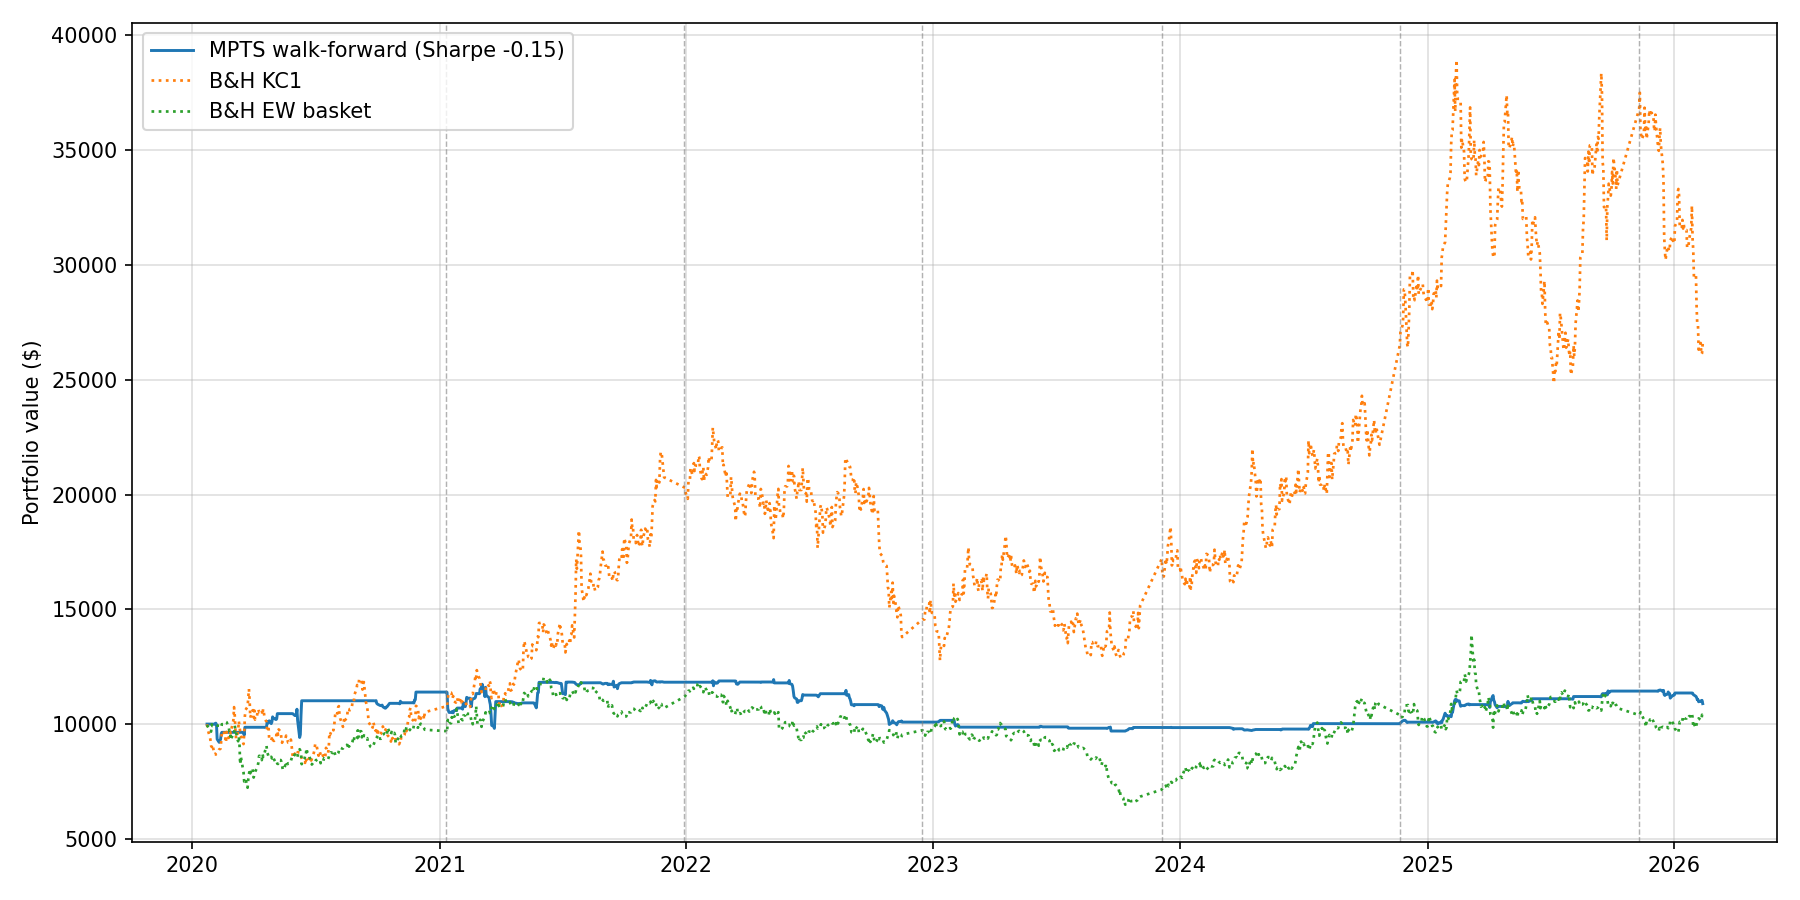
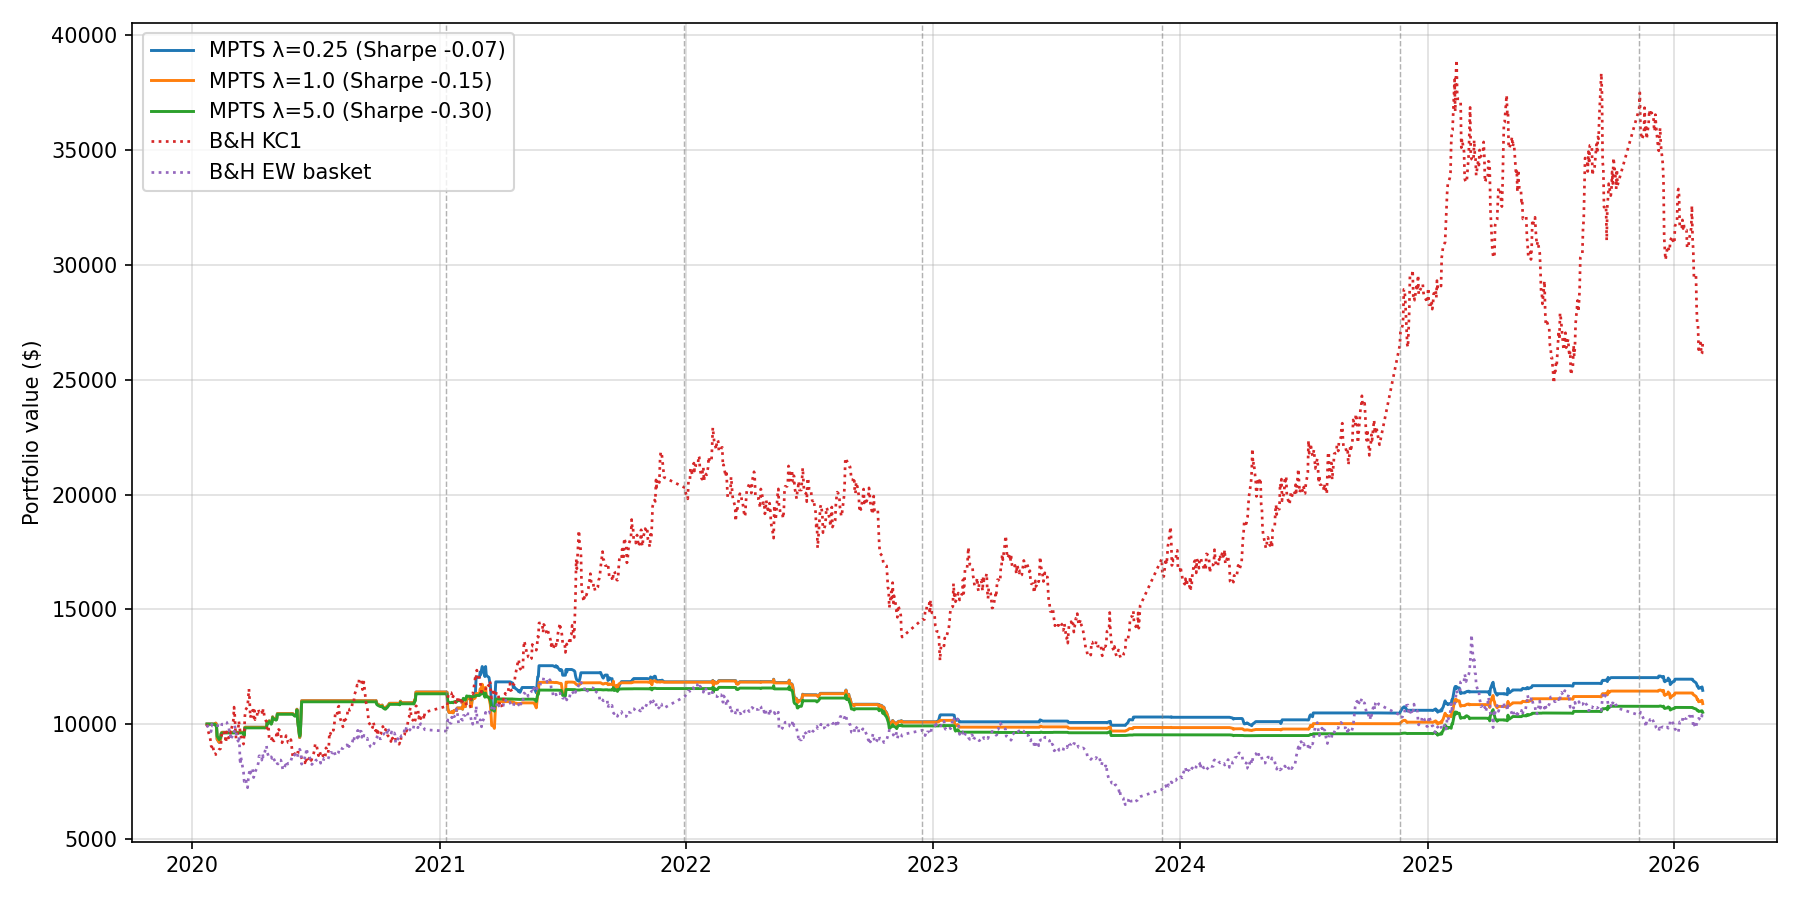
Add risk-aversion (lambda) sweep to the walk-forward pipeline
Lambda is the aggressiveness dial from the report's Section 4.2: the
pipeline now runs the walk-forward once per value in
strategy.risk_aversion_sweep, prints a per-lambda comparison table and
plots all equity curves together. README documents the sweep and the
structural aggressiveness ceiling imposed by the no-leverage constraint.

diff --git a/scripts/run_backtest.py b/scripts/run_backtest.py
@@ -38,18 +38,20 @@ def load_config(path: str) -> dict:
 
 
 def plot_walk_forward(
-    result: walk_forward.WalkForwardResult,
+    results: dict[float, walk_forward.WalkForwardResult],
     benchmarks: dict[str, pd.Series],
     initial_capital: float,
     output_path: Path,
 ) -> None:
-    """Stitched OOS equity curve vs. benchmarks, with fold boundaries."""
+    """Stitched OOS equity curves (one per lambda) vs. benchmarks."""
     fig, ax = plt.subplots(figsize=(12, 6))
-    ax.plot(result.portfolio_value(initial_capital), lw=1.4,
-            label=f"MPTS walk-forward (Sharpe {result.sharpe:.2f})")
+    for lam, result in results.items():
+        ax.plot(result.portfolio_value(initial_capital), lw=1.4,
+                label=f"MPTS λ={lam} (Sharpe {result.sharpe:.2f})")
     for name, series in benchmarks.items():
         ax.plot(series, ls=":", lw=1.3, label=name)
-    for test_start in pd.to_datetime(result.folds["test_start"]).iloc[1:]:
+    reference = next(iter(results.values()))
+    for test_start in pd.to_datetime(reference.folds["test_start"]).iloc[1:]:
         ax.axvline(test_start, color="grey", ls="--", lw=0.7, alpha=0.6)
     ax.set_ylabel("Portfolio value ($)")
     ax.grid(alpha=0.4)
@@ -96,59 +98,73 @@ def main() -> None:
         if wf_cfg.get("reselect_basket", False)
         else None
     )
-    print("\n=== Rolling-window walk-forward ===")
-    result = walk_forward.run_walk_forward(
-        log_prices, equities, anchor, features,
-        calibration_years=wf_cfg["calibration_years"],
-        test_months=wf_cfg["test_months"],
-        embargo_days=wf_cfg["embargo_days"],
-        candidates=candidates,
-        n_pairs=cfg["universe"].get("n_pairs", 4),
-        window=cfg["signals"]["zscore_window"],
-        risk_aversion=cfg["strategy"]["risk_aversion"],
-        transaction_cost=tc,
-        risk_free_rate=rf,
-        rolling_beta_window=cfg["strategy"]["rolling_beta_window"],
-        solver=cfg["strategy"]["solver"],
-    )
+    # The lambda sweep is the aggressiveness dial (report, Section 4.2):
+    # lower lambda -> weaker variance penalty -> positions sized up to the
+    # capital bound. It scales position size, not signal timing.
+    base_lambda = cfg["strategy"]["risk_aversion"]
+    sweep = cfg["strategy"].get("risk_aversion_sweep", [base_lambda])
+    if base_lambda not in sweep:
+        sweep = sorted({base_lambda, *sweep})
 
-    print("\n=== Per-fold diagnostics ===")
-    print(result.folds.round(3).to_string(index=False))
-    print(f"\nFold Sharpe: median {result.folds['sharpe'].median():.3f}, "
-          f"range [{result.folds['sharpe'].min():.3f}, "
-          f"{result.folds['sharpe'].max():.3f}]")
+    results: dict[float, walk_forward.WalkForwardResult] = {}
+    for lam in sweep:
+        print(f"\n=== Rolling-window walk-forward (lambda={lam}) ===")
+        results[lam] = walk_forward.run_walk_forward(
+            log_prices, equities, anchor, features,
+            calibration_years=wf_cfg["calibration_years"],
+            test_months=wf_cfg["test_months"],
+            embargo_days=wf_cfg["embargo_days"],
+            candidates=candidates,
+            n_pairs=cfg["universe"].get("n_pairs", 4),
+            window=cfg["signals"]["zscore_window"],
+            risk_aversion=lam,
+            transaction_cost=tc,
+            risk_free_rate=rf,
+            rolling_beta_window=cfg["strategy"]["rolling_beta_window"],
+            solver=cfg["strategy"]["solver"],
+            verbose=(lam == base_lambda),
+        )
+    base = results[base_lambda]
+
+    print(f"\n=== Per-fold diagnostics (lambda={base_lambda}) ===")
+    print(base.folds.round(3).to_string(index=False))
+    print(f"\nFold Sharpe: median {base.folds['sharpe'].median():.3f}, "
+          f"range [{base.folds['sharpe'].min():.3f}, "
+          f"{base.folds['sharpe'].max():.3f}]")
 
     # 4. Aggregate performance vs. benchmarks over the stitched test folds
-    log_oos = log_prices.loc[result.pnl.index]
+    log_oos = log_prices.loc[base.pnl.index]
     kc1_value = backtest.buy_and_hold_benchmark(log_oos, [anchor], initial_capital, tc)
     ew_value = backtest.buy_and_hold_benchmark(log_oos, equities, initial_capital, tc)
 
     print("\n=== Aggregate out-of-sample performance (stitched folds) ===")
-    report = pd.DataFrame({
-        "MPTS walk-forward": metrics.portfolio_metrics(
-            result.portfolio_value(initial_capital), rf),
-        f"B&H {anchor}": metrics.portfolio_metrics(kc1_value, rf),
-        "B&H EW basket": metrics.portfolio_metrics(ew_value, rf),
-    })
+    report = pd.DataFrame(
+        {f"MPTS lam={lam}": metrics.portfolio_metrics(
+            res.portfolio_value(initial_capital), rf)
+         for lam, res in results.items()}
+    )
+    report[f"B&H {anchor}"] = pd.Series(metrics.portfolio_metrics(kc1_value, rf))
+    report["B&H EW basket"] = pd.Series(metrics.portfolio_metrics(ew_value, rf))
     print(report.round(4).to_string())
 
-    print("\n=== Trade-level statistics ===")
-    for key, value in metrics.trade_metrics(result.trades).items():
+    print(f"\n=== Trade-level statistics (lambda={base_lambda}) ===")
+    for key, value in metrics.trade_metrics(base.trades).items():
         print(f"{key:>20}: {value:.4f}" if isinstance(value, float)
               else f"{key:>20}: {value}")
 
     # 5. Outputs
     output_dir = Path("reports")
     (output_dir / "figures").mkdir(parents=True, exist_ok=True)
-    equity_curves = pd.DataFrame({
-        "MPTS_walk_forward": result.portfolio_value(initial_capital),
-        f"BH_{anchor}": kc1_value,
-        "BH_EW": ew_value,
-    })
+    equity_curves = pd.DataFrame(
+        {f"MPTS_lambda_{lam}": res.portfolio_value(initial_capital)
+         for lam, res in results.items()}
+    )
+    equity_curves[f"BH_{anchor}"] = kc1_value
+    equity_curves["BH_EW"] = ew_value
     equity_curves.to_csv(output_dir / "equity_curves.csv")
-    result.folds.to_csv(output_dir / "walk_forward_folds.csv", index=False)
+    base.folds.to_csv(output_dir / "walk_forward_folds.csv", index=False)
     plot_walk_forward(
-        result,
+        results,
         {f"B&H {anchor}": kc1_value, "B&H EW basket": ew_value},
         initial_capital,
         output_dir / "figures" / "walk_forward_equity.png",

diff --git a/README.md b/README.md
@@ -17,15 +17,17 @@ The project was developed for the *Commodities Markets and Models* course, where
 
 **Rolling walk-forward validation** on the Bloomberg dataset: 7 folds, each calibrated on a fixed 4-year window and traded on the following 12 months, stitched out-of-sample window Jan 2020 → Feb 2026 (~6 years of test data), $10,000 initial capital, 10 bps transaction costs per leg, Gurobi solver. The equity basket itself is re-selected on every calibration window (ADF + Engle-Granger screen, top-4 positive-hedge-ratio names), so nothing in the pipeline is frozen on information the fold could not have had.
 
-| Metric | MPTS walk-forward | B&H KC1 | B&H EW basket |
-|---|---|---|---|
-| Sharpe ratio | −0.15 | 0.53 | −0.03 |
-| Annualized return | 1.5% | 18.5% | 0.7% |
-| Annualized volatility | **11.5%** | 37.7% | 22.8% |
-| Max drawdown | **−18.8%** | −44.3% | −46.1% |
-| Trades | 167 (61% winners) | — | — |
+The risk-aversion coefficient λ is the strategy's aggressiveness dial (report, Section 4.2): a lower λ weakens the variance penalty and sizes positions up toward the capital bound. It scales position size, not signal timing — trade entries are threshold-driven — so returns and volatility move together while the Sharpe barely changes. Under the paper's no-leverage constraint, gross exposure is capped at 100% of capital, which bounds how aggressive the strategy can get: λ → 0 saturates that bound.
 
-![Walk-forward equity curve vs benchmarks](reports/figures/walk_forward_equity.png)
+| Metric | MPTS λ=0.25 | MPTS λ=1 | MPTS λ=5 | B&H KC1 | B&H EW basket |
+|---|---|---|---|---|---|
+| Sharpe ratio | −0.07 | −0.15 | −0.30 | 0.53 | −0.03 |
+| Annualized return | 2.4% | 1.5% | 0.9% | 18.5% | 0.7% |
+| Annualized volatility | 11.9% | **11.5%** | 8.8% | 37.7% | 22.8% |
+| Max drawdown | −20.9% | **−18.8%** | −18.7% | −44.3% | −46.1% |
+| Trades | — | 167 (61% winners) | — | — | — |
+
+![Walk-forward equity curves vs benchmarks](reports/figures/walk_forward_equity.png)
 
 Per-fold diagnostics (basket and thresholds re-estimated on each rolling calibration window):
 